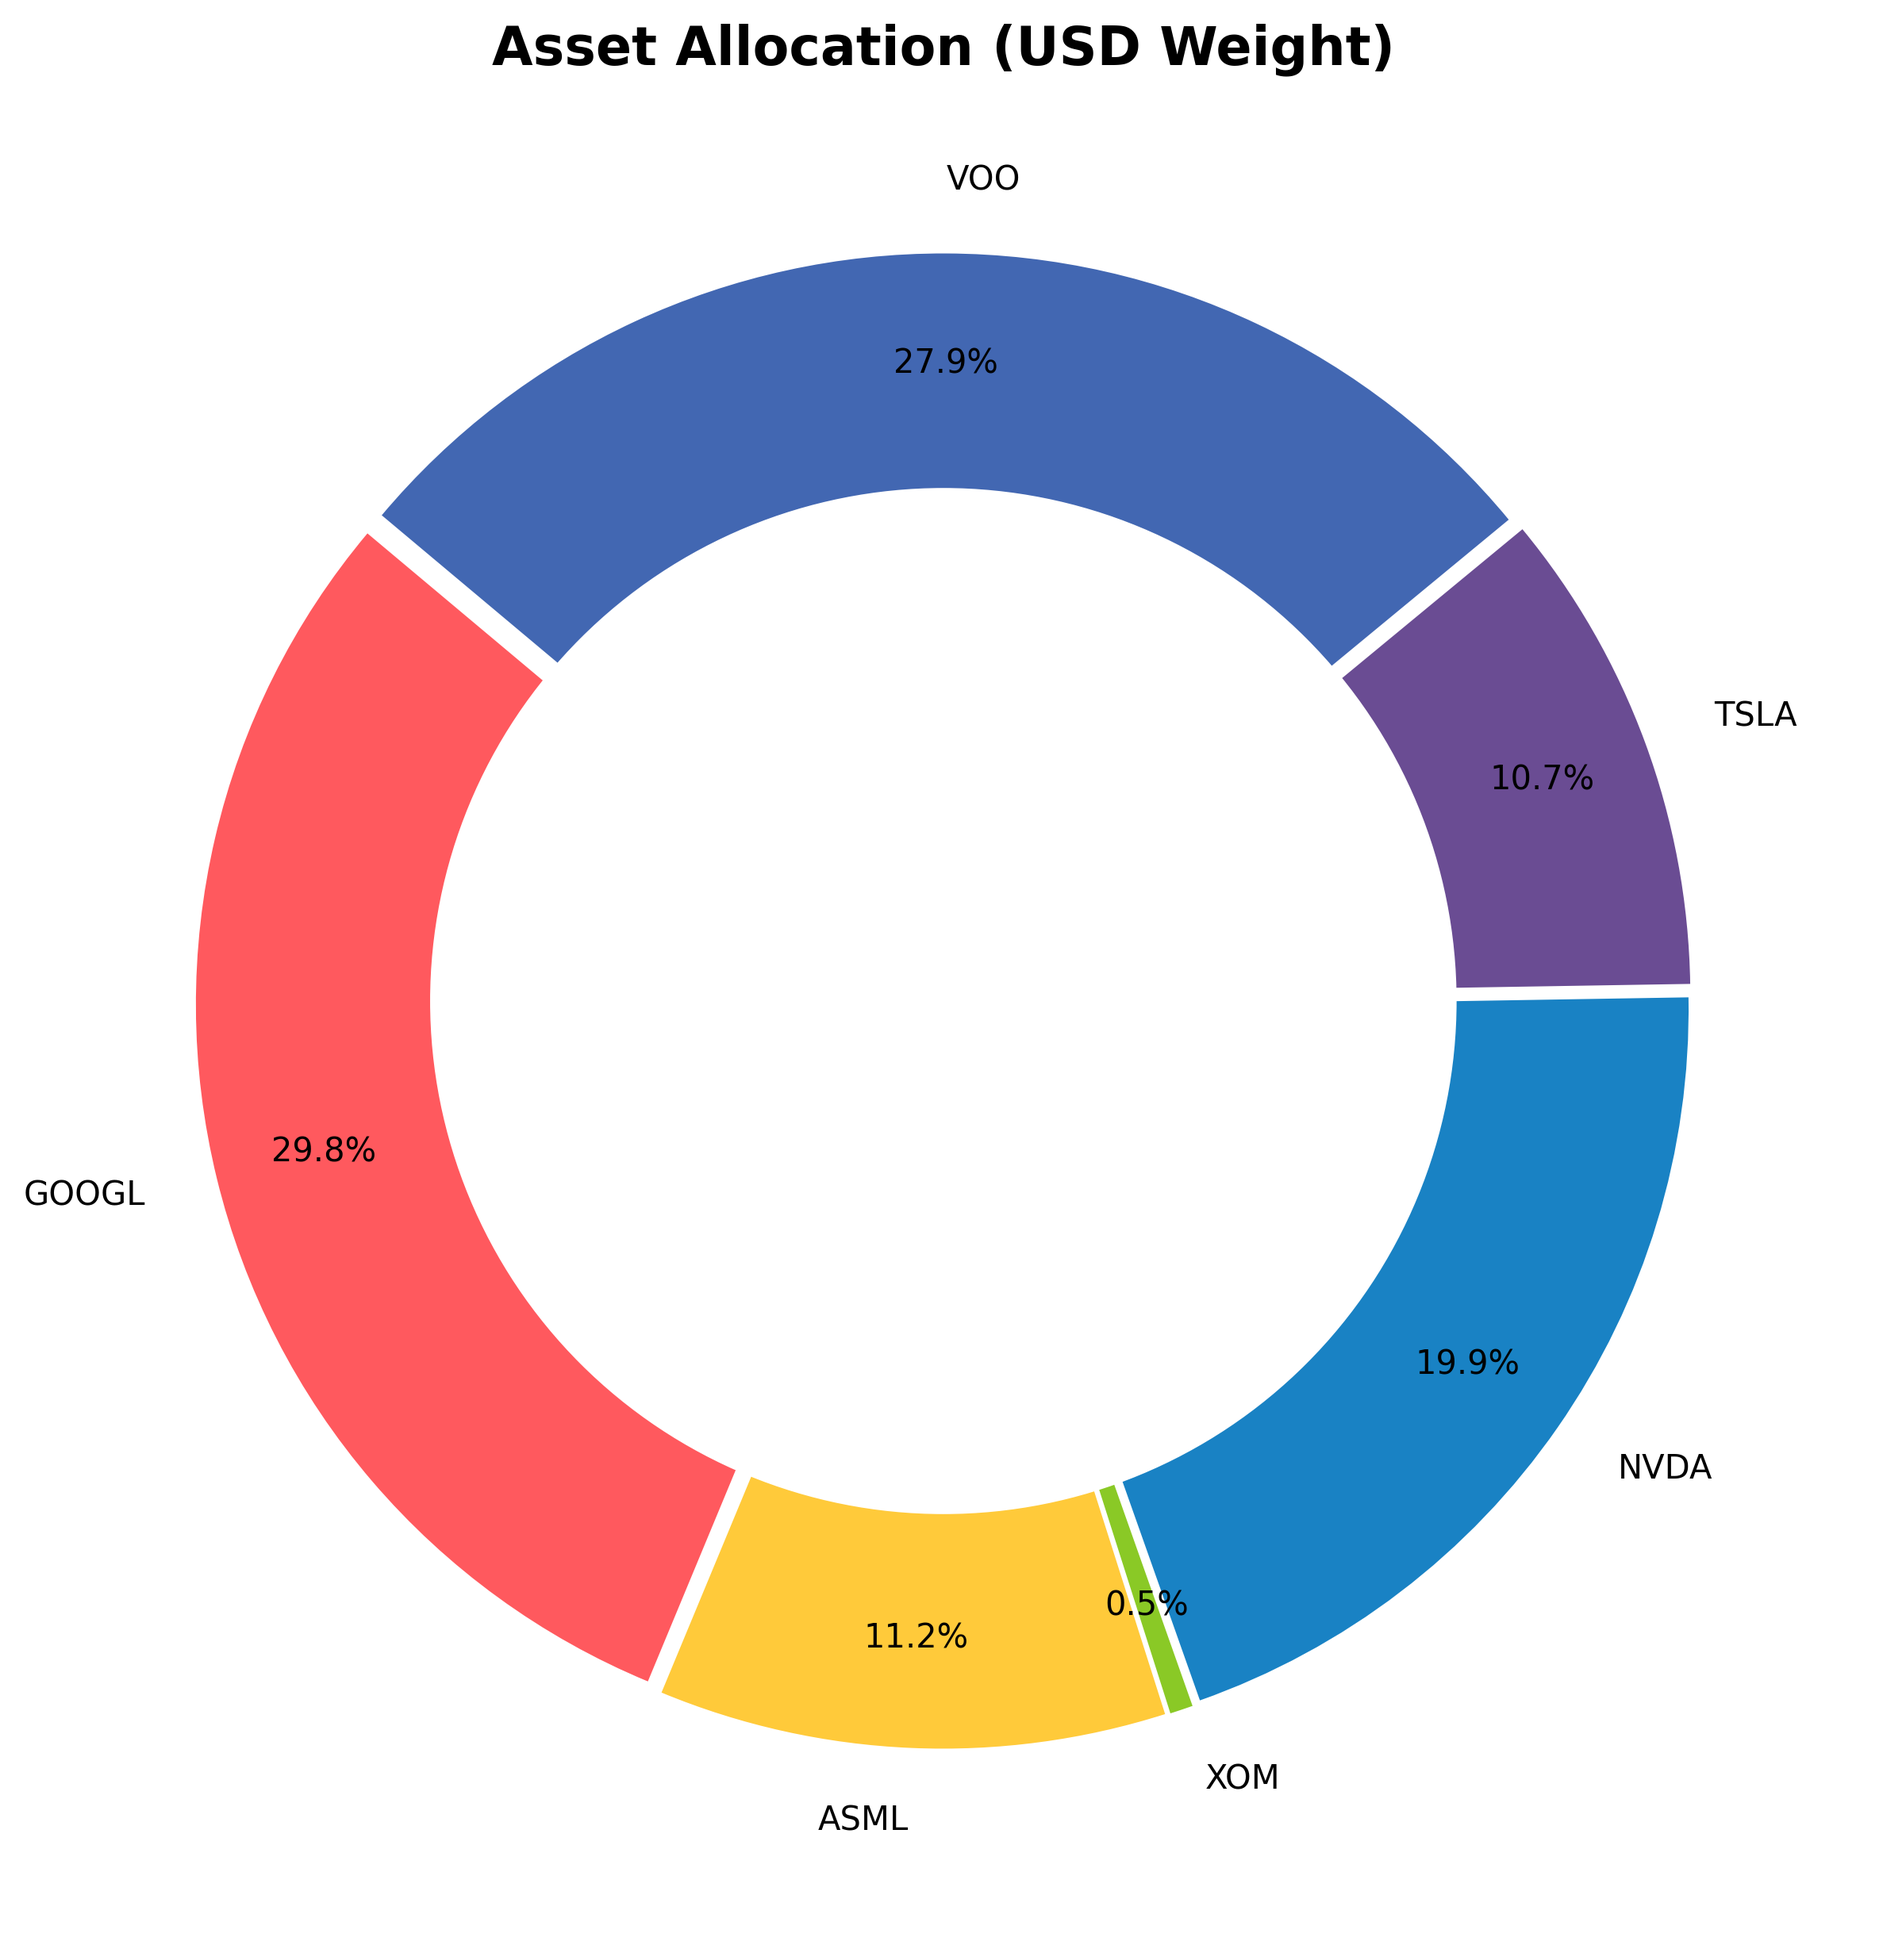
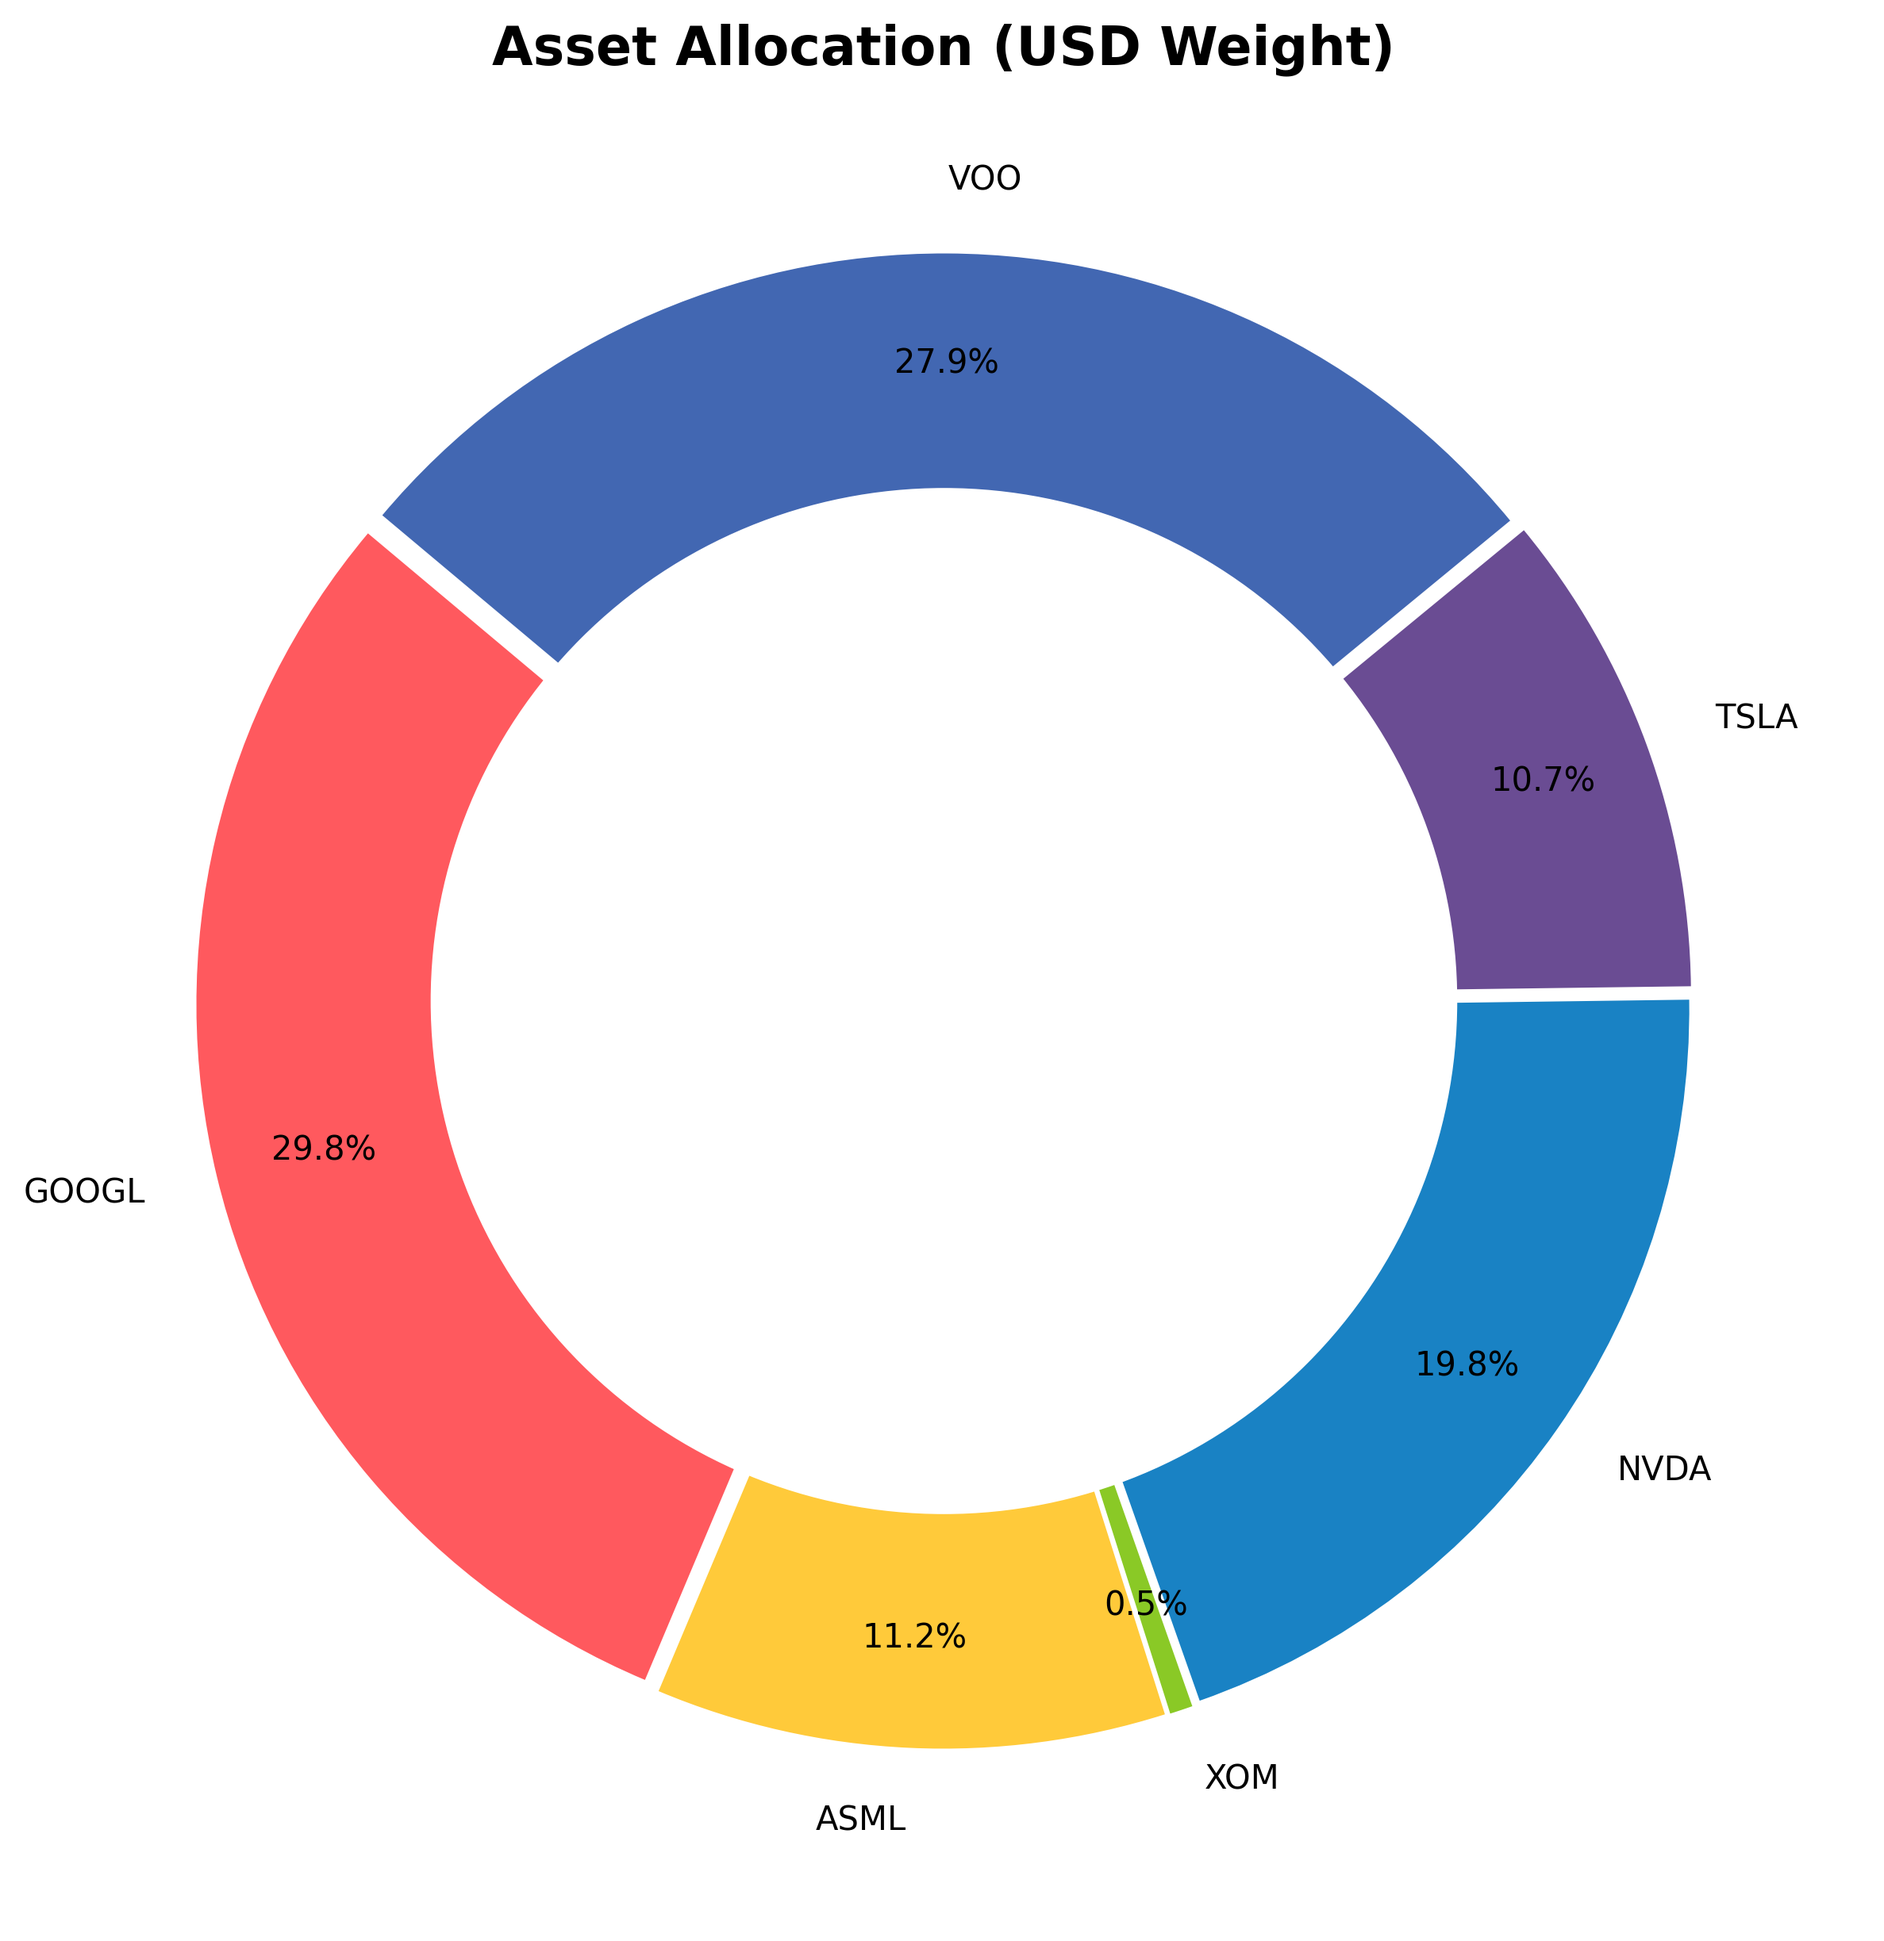
System Run: Analytics & Archive Update [skip ci]

diff --git a/README.md b/README.md
@@ -1,23 +1,23 @@
 # 📊 Portfolio Dashboard | מעקב תיק השקעות
-**Last Update:** 04/08/2026 21:41 | **USD/ILS:** ₪3.004
+**Last Update:** 04/08/2026 23:37 | **USD/ILS:** ₪3.003
 
 ## 💰 Portfolio Summary | סיכום התיק
 | Metric | Value | נתון |
 | :--- | :--- | :--- |
-| **Current Value** | `₪183,293` | **שווי נוכחי** |
-| **Total Invested** | `₪128,781` | **סך השקעה** |
-| **Total Profit/Loss** | `+42.33%` (₪54,512) | **רווח/הפסד כולל** |
-| **Daily Change** | `+2.02%` | **שינוי יומי** |
+| **Current Value** | `₪182,948` | **שווי נוכחי** |
+| **Total Invested** | `₪128,738` | **סך השקעה** |
+| **Total Profit/Loss** | `+42.11%` (₪54,210) | **רווח/הפסד כולל** |
+| **Daily Change** | `+1.97%` | **שינוי יומי** |
 
 ## 📜 Holdings | פירוט החזקות
 | Ticker | Shares | Avg. Cost | Current Price | P&L % | P&L ILS |
 | :--- | :--- | :--- | :--- | :--- | :--- |
-| GOOGL | 48 | $187.99 | $379.41 | 🟢 +101.82% | ₪27,600 |
-| ASML | 4 | $934.51 | $1,703.77 | 🟢 +82.32% | ₪9,243 |
-| XOM | 2 | $126.08 | $154.74 | 🟢 +22.73% | ₪172 |
-| NVDA | 57 | $148.62 | $212.50 | 🟢 +42.98% | ₪10,938 |
-| TSLA | 20 | $436.45 | $327.22 | 🔴 -25.03% | ₪-6,562 |
-| VOO | 24 | $527.38 | $709.38 | 🟢 +34.51% | ₪13,121 |
+| GOOGL | 48 | $187.99 | $377.79 | 🟢 +100.96% | ₪27,358 |
+| ASML | 4 | $934.51 | $1,710.87 | 🟢 +83.08% | ₪9,325 |
+| XOM | 2 | $126.08 | $153.96 | 🟢 +22.11% | ₪167 |
+| NVDA | 57 | $148.62 | $211.84 | 🟢 +42.54% | ₪10,821 |
+| TSLA | 20 | $436.45 | $327.42 | 🔴 -24.98% | ₪-6,548 |
+| VOO | 24 | $527.38 | $708.96 | 🟢 +34.43% | ₪13,086 |
 
 ## 📈 Charts | גרפים
 ![Performance](./data_hub/portfolio_performance.png)
